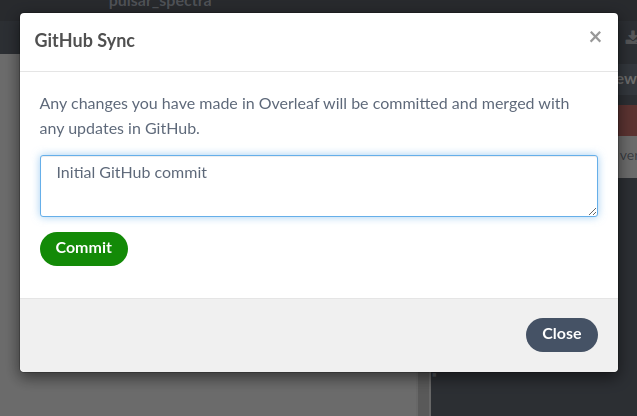
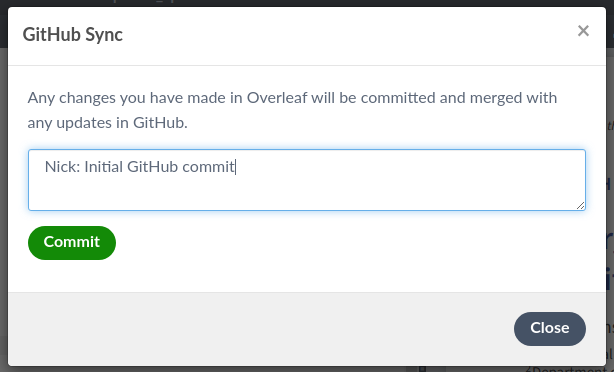
Updated the commit message to include a user's name

Changed region(s): [[0.0, 0.0, 1.0, 1.0]]

diff --git a/_episodes/07-paper_collaboration.md b/_episodes/07-paper_collaboration.md
@@ -146,7 +146,7 @@ All users should frequently push their changes. You can do this by clicking the 
 
 ![overleaf_sync](../fig/overleaf_sync.png)
 
-Then write a commit message.
+Then write a commit message. Note that GitHub will not know which user created this commit so always include your name in the commit.
 
 ![overleaf_push](../fig/overleaf_push.png)
 
